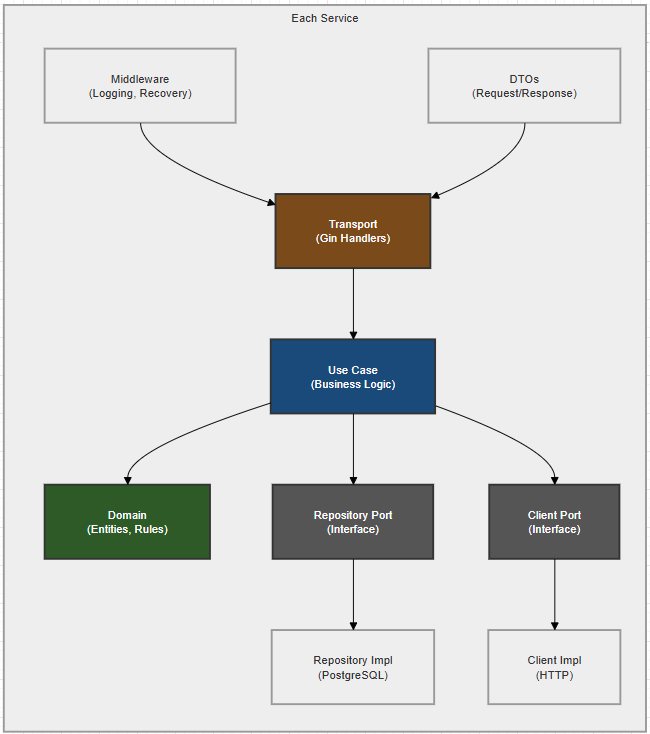
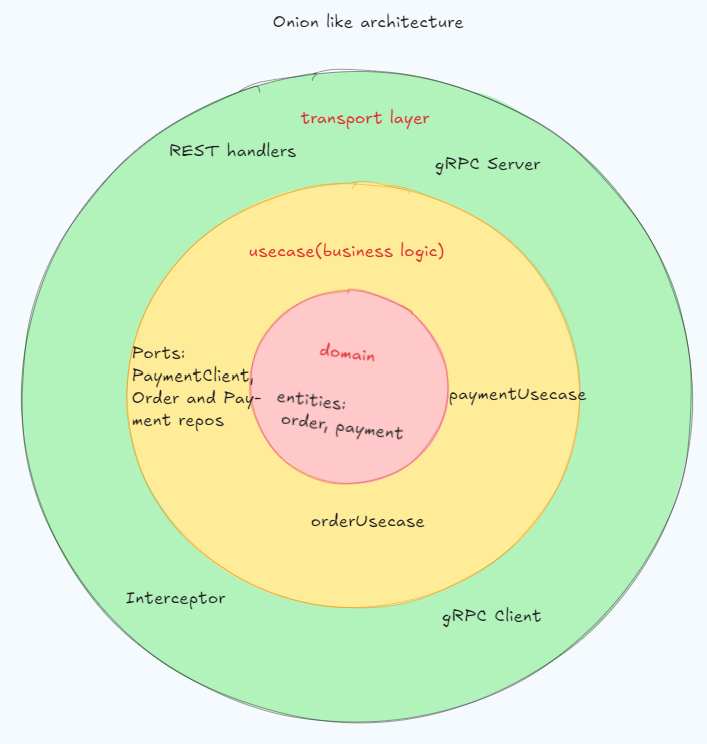
docs(readme): update README with gRPC architecture and diagrams

diff --git a/README.md b/README.md
@@ -4,41 +4,71 @@
 **Student:** Saparbekov Nurdaulet  
 **Group:** SE-2402
 
-Two-service platform in Go following **Clean Architecture** with REST communication (Gin framework).
+Two-service platform in Go following **Clean Architecture** with **gRPC** inter-service communication and **REST** external API (Gin framework).
+
+## Proto Repositories
+
+| Repository | Description |
+|-----------|-------------|
+| [microservices-proto](https://github.com/Garryflop/microservices-proto) | `.proto` definitions (Contract-First) |
+| [microservices-gen-go](https://github.com/Garryflop/microservices-gen-go) | Auto-generated Go code (via GitHub Actions) |
 
 ## System Overview
 
 ![System Overview](docs/images/Overview.png)
 
+## Architecture Diagram
+![Architecture Diagram](docs/images/ContractFirstDraft.png)
+![Architecture Diagram](docs/images/ContractFirst.png)
+
+## Clean Architecture Layers
+
+![Clean Architecture Layers](docs/images/Layers.png)
+
+## Order State Diagram
+
+![Order State Diagram](docs/images/OrderState.png)
+
 ## Project Structure
 
 ```
 microservices/
-├── order-service/                    # Manages orders and their lifecycle
-│   ├── cmd/order-service/main.go     # Composition Root (Manual DI)
+├── order-service/
+│   ├── cmd/
+│   │   ├── order-service/main.go      # Composition Root (REST + gRPC servers)
+│   │   └── stream-client/main.go      # Streaming demo client
 │   ├── internal/
-│   │   ├── config/config.go          # .env loader
-│   │   ├── domain/order.go           # Entity + business rules
-│   │   ├── dto/                      # Request/Response objects
-│   │   ├── usecase/                  # Business logic + port interfaces
-│   │   ├── repository/              # PostgreSQL persistence
-│   │   ├── transport/http/           # Gin handlers + router
-│   │   ├── middleware/               # Logging, recovery, idempotency
-│   │   └── infrastructure/          # Payment Service HTTP client
+│   │   ├── config/config.go           # .env loader
+│   │   ├── domain/order.go            # Entity + business rules 
+│   │   ├── dto/                       # Request/Response objects
+│   │   ├── usecase/                   # Business logic + ports
+│   │   ├── repository/               # PostgreSQL persistence
+│   │   ├── transport/
+│   │   │   ├── http/                  # Gin REST handlers 
+│   │   │   └── grpc/server.go         # gRPC streaming server
+│   │   ├── infrastructure/
+│   │   │   ├── payment_client.go      # OLD HTTP client (kept for reference)
+│   │   │   └── grpc_payment_client.go # NEW gRPC client
+│   │   └── middleware/                # Logging, recovery, idempotency
 │   └── migrations/
-├── payment-service/                  # Processes payments
-│   ├── cmd/payment-service/main.go   # Composition Root (Manual DI)
+├── payment-service/
+│   ├── cmd/payment-service/main.go    # Composition Root (REST + gRPC servers)
 │   ├── internal/
 │   │   ├── config/config.go
-│   │   ├── domain/payment.go
+│   │   ├── domain/payment.go          # Entity + business rules 
 │   │   ├── dto/
-│   │   ├── usecase/
-│   │   ├── repository/
-│   │   ├── transport/http/
+│   │   ├── usecase/                   # Business logic 
+│   │   ├── repository/               # PostgreSQL persistence
+│   │   ├── transport/
+│   │   │   ├── http/                  # Gin REST handlers
+│   │   │   └── grpc/server.go         # gRPC server
 │   │   └── middleware/
+│   │       ├── interceptor.go         # gRPC logging interceptors
+│   │       ├── logging.go
+│   │       └── recovery.go
 │   └── migrations/
 └── docs/
-    └─images/                         #images for README.md
+    └── images/                        # Rendered diagrams + screenshots
 ```
 
 ## Architecture Decisions
@@ -46,25 +76,23 @@ microservices/
 | Principle | Implementation |
 |-----------|---------------|
 | **Clean Architecture** | Domain > Use Case > Repository/Transport. Dependencies point inward. |
-| **Database per Service** | `orders_db` (Order Service) and `payments_db` (Payment Service) -- separate databases. |
+| **Contract-First** | Proto definitions in separate repo, code auto-generated via GitHub Actions. |
+| **Database per Service** | `orders_db` and `payments_db` - separate databases. |
 | **No Shared Code** | Each service has its own models, DTOs, middleware. Zero shared packages. |
 | **Manual DI** | All dependencies wired explicitly in `main.go` (Composition Root). |
 | **Ports & Adapters** | Use cases depend on interfaces (`OrderRepository`, `PaymentClient`), not implementations. |
+| **gRPC for Internal** | Inter-service calls use gRPC. REST kept for external API. |
 
-### Clean Architecture Layers
+## What Changed from Assignment 1
 
-![Clean Architecture Layers](docs/images/Layers.png)
-
-### Order State Diagram
-
-![Order State Diagram](docs/images/OrderState.png)
+The core architecture and business logic remained completely isolated from the gRPC migration, adhering strictly to Clean Architecture principles. The Domain layer (entities and business rules), Use Case layer, Ports (interfaces like `PaymentClient`), and Repository layer (PostgreSQL queries) required absolutely no changes. The modifications were exclusively contained within the outer layers: the Transport layer was updated to include new gRPC and streaming servers, the Infrastructure layer saw the old HTTP client replaced with a new gRPC client, and the Configuration was adjusted to point to gRPC addresses instead of REST URLs.
 
 ## Installation
 
 ### Prerequisites
 
-- **Go 1.25+** 
-- **PostgreSQL** 
+- **Go 1.25+**
+- **PostgreSQL**
 
 ### Step 1: Create Databases
 
@@ -80,7 +108,8 @@ Copy `.env.example` to `.env` in each service and set your PostgreSQL password:
 **order-service/.env**
 ```env
 DB_DSN=postgres://postgres:YOUR_PASSWORD@localhost:5432/orders_db?sslmode=disable
-PAYMENT_SERVICE_URL=http://localhost:8082
+PAYMENT_GRPC_ADDR=localhost:50051
+GRPC_PORT=50052
 PORT=8081
 ```
 
@@ -88,55 +117,24 @@ PORT=8081
 ```env
 DB_DSN=postgres://postgres:YOUR_PASSWORD@localhost:5432/payments_db?sslmode=disable
 PORT=8082
+GRPC_PORT=50051
 ```
 
 ### Step 3: Run Services
 
 ```bash
-# Terminal 1
+# Terminal 1 - Payment Service (gRPC + REST)
 cd payment-service
 go run ./cmd/payment-service
 
-# Terminal 2
+# Terminal 2 - Order Service (REST + gRPC streaming)
 cd order-service
 go run ./cmd/order-service
 ```
 
-## Business Logic
-
-### Order Service
-
-- **Create Order** (`POST /orders`): Creates order as "Pending", calls Payment Service, then updates to "Paid" or "Failed".
-- **Get Order** (`GET /orders/:id`): Returns order details from database.
-- **Cancel Order** (`PATCH /orders/:id/cancel`): Only "Pending" orders can be cancelled. "Paid" orders cannot be cancelled.
-
-### Payment Service
-
-- **Process Payment** (`POST /payments`): Validates amount, applies limit rule, stores transaction.
-- **Get Payment** (`GET /payments/:order_id`): Returns payment details for a given order.
-
-### Business Rules
-
-| Rule | Detail |
-|------|--------|
-| Financial accuracy | `int64` for money (cents). Never `float64`. |
-| Amount validation | Must be > 0. |
-| Payment limit | Amount > 100,000 cents ($1,000) results in "Declined". |
-| Order cancellation | "Paid" orders cannot be cancelled. |
-| HTTP timeout | Order Service uses 2-second timeout for Payment Service calls. |
-| Service unavailable | If Payment Service is down, order is marked "Failed", returns `503`. |
-| Idempotency (bonus) | `Idempotency-Key` header prevents duplicate orders on retry. |
-
-### Failure Handling
-
-When Payment Service is unavailable:
-1. Order Service **does not hang** -- 2-second HTTP client timeout.
-2. Returns **503 Service Unavailable**.
-3. Order is marked **"Failed"** (not "Pending") -- clear signal that the operation did not succeed. Client can retry safely.
-
 ## API Examples
 
-### Create Order (Authorized)
+### Create Order
 
 ```bash
 curl -X POST http://localhost:8081/orders \
@@ -145,35 +143,7 @@ curl -X POST http://localhost:8081/orders \
   -d '{"customer_id": "cust-001", "item_name": "Laptop Stand", "amount": 15000}'
 ```
 
-```json
-{
-  "id": "uuid",
-  "customer_id": "cust-001",
-  "item_name": "Laptop Stand",
-  "amount": 15000,
-  "status": "Paid",
-  "created_at": "2026-04-01T10:00:00Z"
-}
-```
-
-### Create Order (Declined — exceeds limit)
-
-```bash
-curl -X POST http://localhost:8081/orders \
-  -H "Content-Type: application/json" \
-  -d '{"customer_id": "cust-001", "item_name": "Diamond Ring", "amount": 200000}'
-```
-
-```json
-{
-  "id": "uuid",
-  "customer_id": "cust-001",
-  "item_name": "Diamond Ring",
-  "amount": 200000,
-  "status": "Failed",
-  "created_at": "2026-04-01T10:00:00Z"
-}
-```
+Internally, the Order Service calls the Payment Service via **gRPC** (not REST).
 
 ### Get Order
 
@@ -187,24 +157,68 @@ curl http://localhost:8081/orders/{order_id}
 curl -X PATCH http://localhost:8081/orders/{order_id}/cancel
 ```
 
-### Get Payment
+### Subscribe to Order Updates (gRPC Streaming)
 
 ```bash
-curl http://localhost:8082/payments/{order_id}
+# Terminal 3 - run the streaming client
+cd order-service
+go run ./cmd/stream-client -order {order_id}
 ```
 
-### Failure Scenario (Payment Service Down)
-
-```bash
-# Stop Payment Service (Ctrl+C), then:
-curl -X POST http://localhost:8081/orders \
-  -H "Content-Type: application/json" \
-  -d '{"customer_id": "cust-001", "item_name": "Test", "amount": 5000}'
+Output:
+```
+subscribed to order {order_id} updates...
+status update: Pending (at 12:00:00)
+status update: Paid (at 12:00:04)
+stream ended
 ```
 
-```json
-{"error": "payment service unavailable"}
+## gRPC Services
+
+| Service | Method | Type | Port |
+|---------|--------|------|------|
+| `PaymentService` | `ProcessPayment` | Unary | `:50051` |
+| `OrderTrackingService` | `SubscribeToOrderUpdates` | Server-side Stream | `:50052` |
+
+## gRPC Interceptor (Bonus)
+
+The Payment Service uses a **Unary Logging Interceptor** that logs every incoming gRPC request:
+
+```
+gRPC | method=/payment.PaymentService/ProcessPayment | duration=1.2ms | ok
 ```
 
+## Business Rules
+
+| Rule | Detail |
+|------|--------|
+| Financial accuracy | `int64` for money (cents). Never `float64`. |
+| Amount validation | Must be > 0. |
+| Payment limit | Amount > 100,000 cents ($1,000) results in "Declined". |
+| Order cancellation | "Paid" orders cannot be cancelled. |
+| gRPC error codes | `InvalidArgument` for bad input, `NotFound` for missing orders, `Internal` for server errors. |
+| Service unavailable | If Payment Service is down, order is marked "Failed", returns `503`. |
+| Idempotency | `Idempotency-Key` header prevents duplicate orders on retry. |
+
+## Failure Handling
+
+When Payment Service is unavailable:
+1. Order Service **does not hang** - gRPC client has context-based timeout.
+2. Returns **503 Service Unavailable**.
+3. Order is marked **"Failed"** - clear signal that the operation did not succeed.
+
+## Streaming Implementation
+
+The `SubscribeToOrderUpdates` stream is tied to **real database changes**:
+
+1. Client subscribes with an `order_id`
+2. Server sends the current status immediately
+3. Server polls the database every 2 seconds
+4. When status changes in DB => server pushes update to the stream
+5. Stream ends when a terminal state is reached (Paid / Failed / Cancelled)
+
+
+
+---
 
 Made by Harryfloppa with ❤
